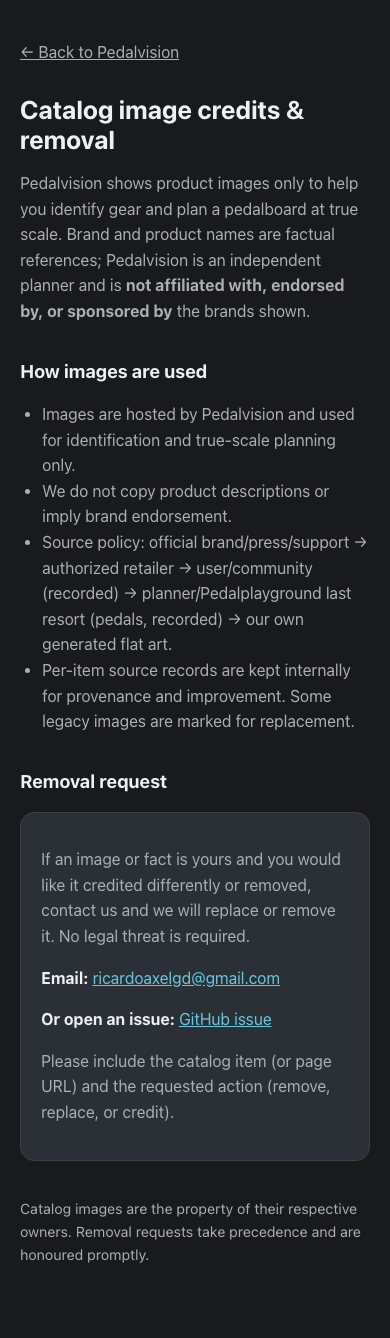
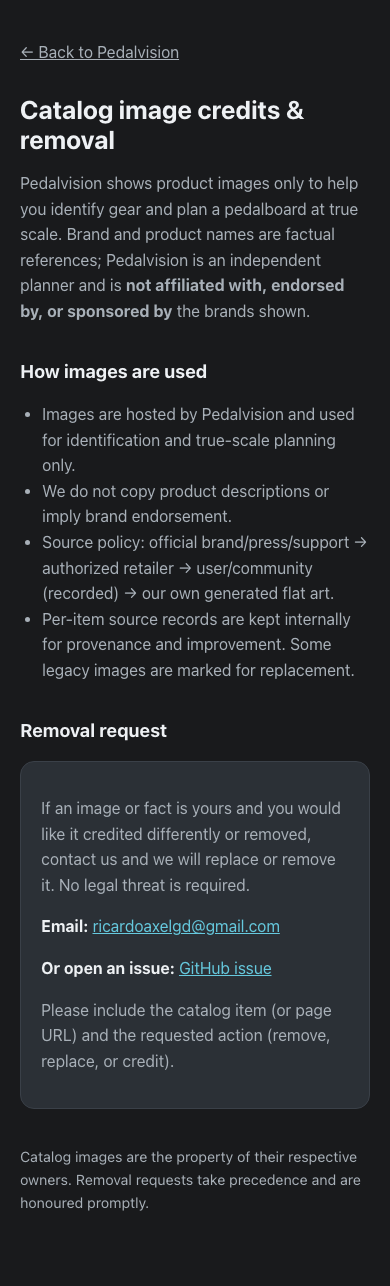
fix(catalog): keep planner sources off the public attribution page

Changed region(s): [[0.0308, 0.0311, 0.9538, 0.9642], [0.9231, 0.4044, 0.9538, 0.4355]]

diff --git a/public/attribution.html b/public/attribution.html
@@ -61,7 +61,7 @@
       <ul>
         <li>Images are hosted by Pedalvision and used for identification and true-scale planning only.</li>
         <li>We do not copy product descriptions or imply brand endorsement.</li>
-        <li>Source policy: official brand/press/support &rarr; authorized retailer &rarr; user/community (recorded) &rarr; planner/Pedalplayground last resort (pedals, recorded) &rarr; our own generated flat art.</li>
+        <li>Source policy: official brand/press/support &rarr; authorized retailer &rarr; user/community (recorded) &rarr; our own generated flat art.</li>
         <li>Per-item source records are kept internally for provenance and improvement. Some legacy images are marked for replacement.</li>
       </ul>
 

diff --git a/docs/catalog/attribution-takedown.md b/docs/catalog/attribution-takedown.md
@@ -29,11 +29,10 @@ the page ships before launch (P5-04). Governing decision: ADR-003
 >
 > Pedalvision shows product images to help you plan a pedalboard at true scale.
 > Images are sourced from manufacturer/press pages, authorized retailers,
-> user/community images, planner/Pedalplayground last-resort images (pedals), or
-> our own generated flat art, and are hosted by Pedalvision. Per-item source
-> records are kept internally for provenance and improvement. Brand and product
-> names are the property of their owners; Pedalvision is an independent planner
-> and does not imply endorsement.
+> user/community images, or our own generated flat art, and are hosted by
+> Pedalvision. Per-item source records are kept internally for provenance and
+> improvement. Brand and product names are the property of their owners;
+> Pedalvision is an independent planner and does not imply endorsement.
 >
 > If an image or fact is yours and you would like it credited differently or
 > removed, open a removal request and we will replace or remove it.
